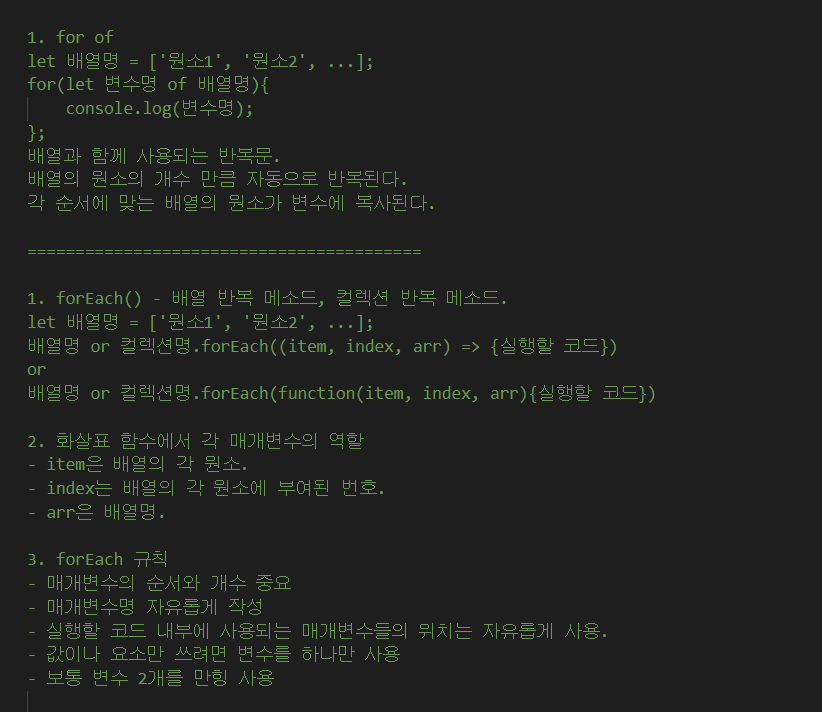
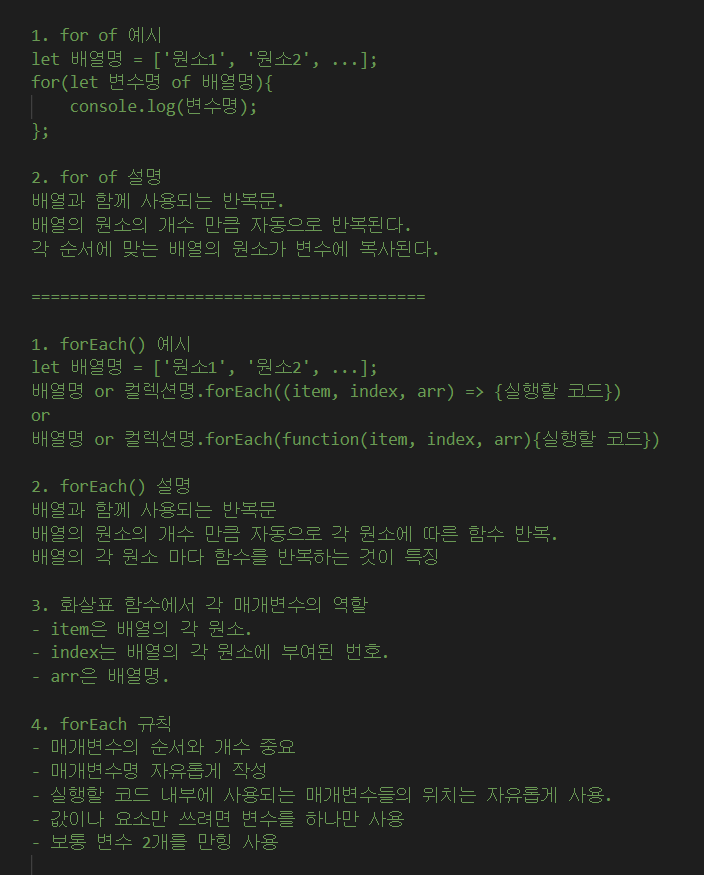
green

diff --git a/정리/03 8.16~8.18/배열 메소드/03 배열 메소드1.html b/정리/03 8.16~8.18/배열 메소드/03 배열 메소드1.html
@@ -5,7 +5,7 @@
         <meta charset="UTF-8">
         <meta http-equiv="X-UA-Compatible" content="IE=edge">
         <meta name="viewport" content="width=device-width, initial-scale=1.0">
-        <title>Document</title>
+        <title> 배열 메소드1 </title>
     </head>
     <body>
         <script>
@@ -34,15 +34,16 @@
             console.log(days); console.log("\n");
 
             // splice(n, m) * splice : 끝을 겹쳐서 잇다, 접합, 결합. 
-            // n번째 원소부터 m개를 삭제한다, 삭제된 요소를 반환한다.
             let arr = [1, 2, 3, 4, 5];
             arr.splice(1, 3);
-            console.log(arr);
+            console.log(arr); console.log("\n");
+
+            // n번째 원소부터 m개를 삭제한다, 삭제된 요소를 반환한다.
             arr = [1, 2, 3, 4, 5];
             let arrReturn = arr.splice(1, 2);
             console.log(arrReturn); console.log("\n");
 
-            // splice(n, n, x1, x2)
+            // splice(n, m, x1, x2)
             // n번째 원소부터 m개를 삭제하고 m번째 이후로 x1, x2 등의 값을 삽입한다.
             arr = [1, 2, 3, 4, 5];
             arr.splice(1, 3, 20, 30, 40, 50);
@@ -53,18 +54,10 @@
             arrReturn = arr.slice(1, 3);
             console.log(arrReturn);
 
-            // splice(n, m) * splice : 끝을 겹쳐서 잇다, 접합, 결합. 
-            // n번째 원소부터 m개를 삭제한다
-            arr = [1, 2, 3, 4, 5];
-            arr.splice(1, 3);
-            console.log(arr); console.log("\n");
 
-            // splice(n, n, x1, x2)
-            // n번째 원소부터 m개를 삭제하고 m번째 이후로 x1, x2 등의 값을 삽입한다.
-            arr = [1, 2, 3, 4, 5];
-            arr.splice(1, 3, 20, 30, 40, 50);
-            console.log(arr); console.log("\n");
+           
         </script>
         
     </body>
 </html>
+

diff --git a/정리/03 8.16~8.18/for of, forEach, for in/05 for of, forEach.html b/정리/03 8.16~8.18/for of, forEach, for in/05 for of, forEach.html
@@ -27,29 +27,36 @@
 
 <!-- 
 
-1. for of
+1. for of 예시
 let 배열명 = ['원소1', '원소2', ...];
 for(let 변수명 of 배열명){
     console.log(변수명);
 };
+
+2. for of 설명
 배열과 함께 사용되는 반복문.
 배열의 원소의 개수 만큼 자동으로 반복된다.
 각 순서에 맞는 배열의 원소가 변수에 복사된다.
 
 =========================================
 
-1. forEach() - 배열 반복 메소드, 컬렉션 반복 메소드.
+1. forEach() 예시
 let 배열명 = ['원소1', '원소2', ...];
 배열명 or 컬렉션명.forEach((item, index, arr) => {실행할 코드})
 or
 배열명 or 컬렉션명.forEach(function(item, index, arr){실행할 코드})
 
-2. 화살표 함수에서 각 매개변수의 역할
+2. forEach() 설명
+배열과 함께 사용되는 반복문
+배열의 원소의 개수 만큼 자동으로 각 원소에 따른 함수 반복.
+배열의 각 원소 마다 함수를 반복하는 것이 특징
+
+3. 화살표 함수에서 각 매개변수의 역할
 - item은 배열의 각 원소.
 - index는 배열의 각 원소에 부여된 번호.
 - arr은 배열명.
 
-3. forEach 규칙
+4. forEach 규칙
 - 매개변수의 순서와 개수 중요
 - 매개변수명 자유롭게 작성
 - 실행할 코드 내부에 사용되는 매개변수들의 위치는 자유롭게 사용.
